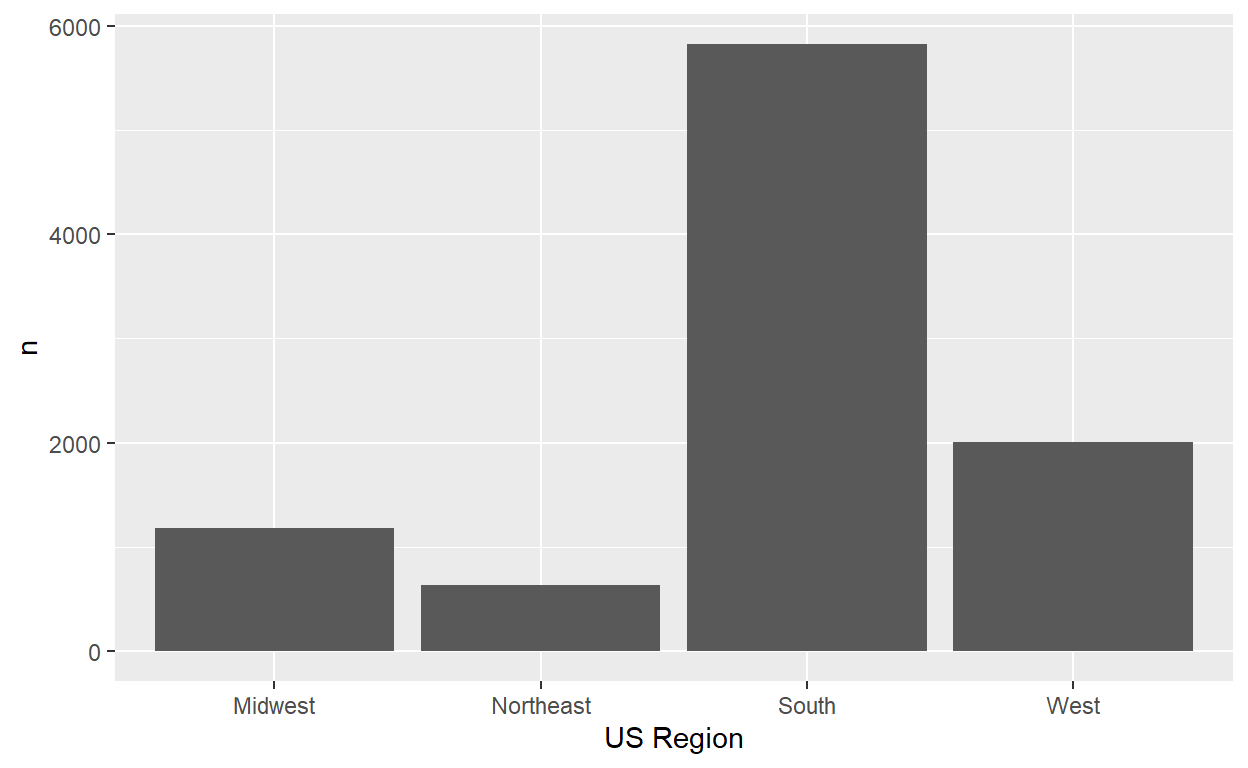
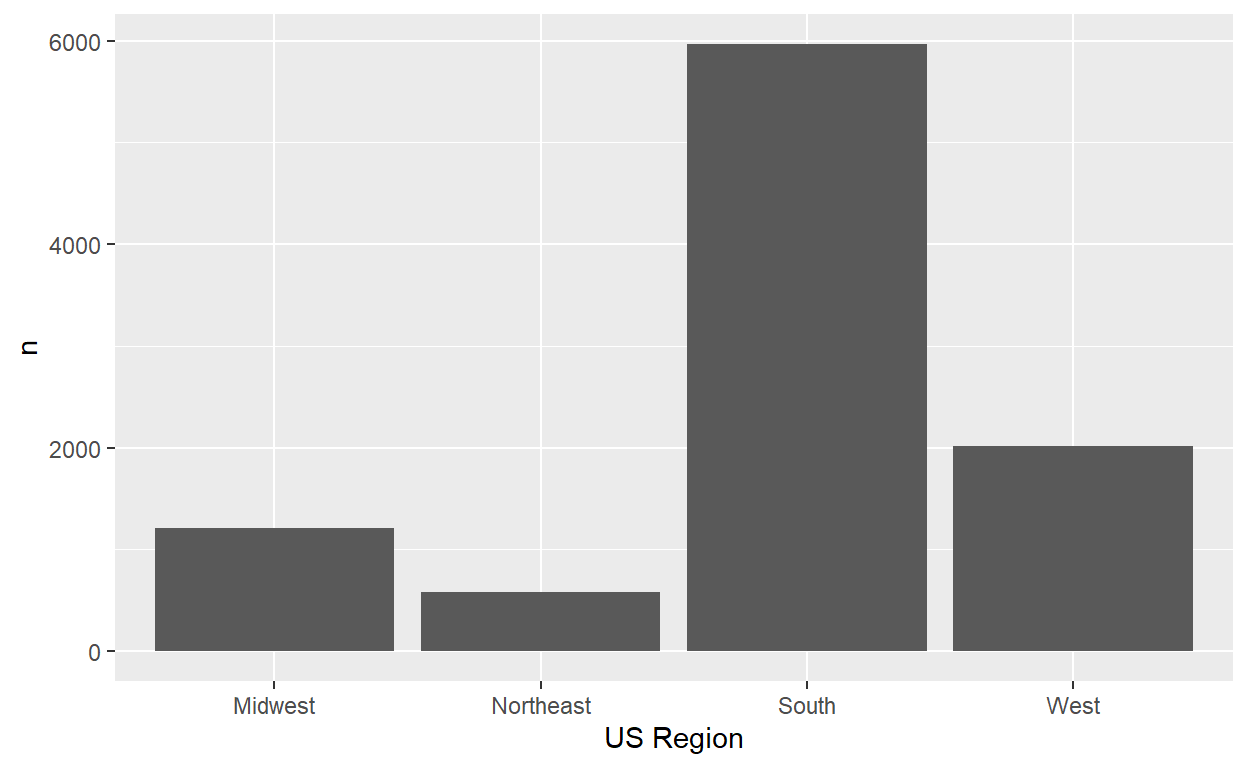
Updated milestone 4

diff --git a/index.html b/index.html
@@ -115,7 +115,7 @@ code span.wa { color: #5e5e5e; font-style: italic; } /* Warning */
   <!--/radix_placeholder_rmarkdown_metadata-->
   
   <script type="text/json" id="radix-resource-manifest">
-  {"type":"character","attributes":{},"value":["Death-Sentences-in-the-United-States-Since-1972-as-of-January-1-2021.csv","index_files/anchor-4.2.2/anchor.min.js","index_files/bowser-1.9.3/bowser.min.js","index_files/distill-2.2.21/template.v2.js","index_files/figure-html5/unnamed-chunk-2-1.png","index_files/figure-html5/unnamed-chunk-2-2.png","index_files/header-attrs-2.16/header-attrs.js","index_files/header-attrs-2.17/header-attrs.js","index_files/jquery-3.6.0/jquery-3.6.0.js","index_files/jquery-3.6.0/jquery-3.6.0.min.js","index_files/jquery-3.6.0/jquery-3.6.0.min.map","index_files/popper-2.6.0/popper.min.js","index_files/tippy-6.2.7/tippy-bundle.umd.min.js","index_files/tippy-6.2.7/tippy-light-border.css","index_files/tippy-6.2.7/tippy.css","index_files/tippy-6.2.7/tippy.umd.min.js","index_files/webcomponents-2.0.0/webcomponents.js"]}
+  {"type":"character","attributes":{},"value":["Death-Sentences-in-the-United-States-Since-1972-as-of-January-1-2021.csv","index_files/anchor-4.2.2/anchor.min.js","index_files/bowser-1.9.3/bowser.min.js","index_files/distill-2.2.21/template.v2.js","index_files/figure-html5/unnamed-chunk-2-1.png","index_files/figure-html5/unnamed-chunk-2-2.png","index_files/figure-html5/unnamed-chunk-3-1.png","index_files/header-attrs-2.16/header-attrs.js","index_files/header-attrs-2.17/header-attrs.js","index_files/jquery-3.6.0/jquery-3.6.0.js","index_files/jquery-3.6.0/jquery-3.6.0.min.js","index_files/jquery-3.6.0/jquery-3.6.0.min.map","index_files/popper-2.6.0/popper.min.js","index_files/tippy-6.2.7/tippy-bundle.umd.min.js","index_files/tippy-6.2.7/tippy-light-border.css","index_files/tippy-6.2.7/tippy.css","index_files/tippy-6.2.7/tippy.umd.min.js","index_files/webcomponents-2.0.0/webcomponents.js"]}
   </script>
   <!--radix_placeholder_navigation_in_header-->
   <!--/radix_placeholder_navigation_in_header-->
@@ -1524,7 +1524,8 @@ code span.wa { color: #5e5e5e; font-style: italic; } /* Warning */
 <div class="layout-chunk" data-layout="l-body">
 <div class="sourceCode">
 <pre class="sourceCode r"><code class="sourceCode r"><span><span class='kw'><a href='https://rdrr.io/r/base/library.html'>library</a></span><span class='op'>(</span><span class='va'><a href='https://tidyverse.tidyverse.org'>tidyverse</a></span><span class='op'>)</span></span>
-<span><span class='kw'><a href='https://rdrr.io/r/base/library.html'>library</a></span><span class='op'>(</span><span class='va'><a href='https://ggplot2.tidyverse.org'>ggplot2</a></span><span class='op'>)</span></span></code></pre>
+<span><span class='kw'><a href='https://rdrr.io/r/base/library.html'>library</a></span><span class='op'>(</span><span class='va'><a href='https://ggplot2.tidyverse.org'>ggplot2</a></span><span class='op'>)</span></span>
+<span><span class='kw'><a href='https://rdrr.io/r/base/library.html'>library</a></span><span class='op'>(</span><span class='va'><a href='https://github.com/tidymodels/infer'>infer</a></span><span class='op'>)</span></span></code></pre>
 </div>
 </div>
 <div class="layout-chunk" data-layout="l-body">
@@ -1545,19 +1546,11 @@ code span.wa { color: #5e5e5e; font-style: italic; } /* Warning */
 </div>
 <img src="index_files/figure-html5/unnamed-chunk-2-1.png" width="624" />
 <div class="sourceCode">
-<pre class="sourceCode r"><code class="sourceCode r"><span><span class='va'>deathsentence</span> <span class='op'>&lt;-</span> <span class='va'>deathsentence</span> <span class='op'>|&gt;</span></span>
-<span>  <span class='fu'><a href='https://dplyr.tidyverse.org/reference/mutate.html'>mutate</a></span><span class='op'>(</span>region <span class='op'>=</span> <span class='fu'><a href='https://dplyr.tidyverse.org/reference/case_when.html'>case_when</a></span><span class='op'>(</span></span>
-<span>    <span class='va'>State.Abbreviation</span> <span class='op'><a href='https://rdrr.io/r/base/match.html'>%in%</a></span> <span class='fu'><a href='https://rdrr.io/r/base/c.html'>c</a></span><span class='op'>(</span><span class='st'>"CT"</span>,<span class='st'>"ME"</span>,<span class='st'>"MA"</span>,<span class='st'>"NH"</span>,<span class='st'>"RI"</span>,<span class='st'>"VT"</span>,<span class='st'>"NJ"</span>,<span class='st'>"NY"</span>,<span class='st'>"PA"</span>, <span class='st'>"DE"</span><span class='op'>)</span> <span class='op'>~</span> <span class='st'>"Northeast"</span>,</span>
-<span>    <span class='va'>State.Abbreviation</span> <span class='op'><a href='https://rdrr.io/r/base/match.html'>%in%</a></span> <span class='fu'><a href='https://rdrr.io/r/base/c.html'>c</a></span><span class='op'>(</span><span class='st'>"IL"</span>,<span class='st'>"IN"</span>,<span class='st'>"MI"</span>,<span class='st'>"OH"</span>,<span class='st'>"WI"</span>, <span class='st'>"IO"</span>,<span class='st'>"KA"</span>,<span class='st'>"MN"</span>,<span class='st'>"NE"</span>,<span class='st'>"ND"</span>,<span class='st'>"SD"</span>, <span class='st'>"MO"</span><span class='op'>)</span> <span class='op'>~</span> <span class='st'>"Midwest"</span>,</span>
-<span>    <span class='va'>State.Abbreviation</span> <span class='op'><a href='https://rdrr.io/r/base/match.html'>%in%</a></span> <span class='fu'><a href='https://rdrr.io/r/base/c.html'>c</a></span><span class='op'>(</span><span class='st'>"FL"</span>,<span class='st'>"GA"</span>,<span class='st'>"MD"</span>,<span class='st'>"NC"</span>, <span class='st'>"SC"</span>, <span class='st'>"VA"</span>, <span class='st'>"WV"</span>, <span class='st'>"Federal"</span>, <span class='st'>"AL"</span>,<span class='st'>"KT"</span>,<span class='st'>"MS"</span>,<span class='st'>"TN"</span>,<span class='st'>"AR"</span>,<span class='st'>"LA"</span>,<span class='st'>"OK"</span>,<span class='st'>"TX"</span><span class='op'>)</span> <span class='op'>~</span> <span class='st'>"South"</span>,</span>
-<span>    <span class='va'>State.Abbreviation</span> <span class='op'><a href='https://rdrr.io/r/base/match.html'>%in%</a></span> <span class='fu'><a href='https://rdrr.io/r/base/c.html'>c</a></span><span class='op'>(</span><span class='st'>"AZ"</span>,<span class='st'>"CO"</span>,<span class='st'>"ID"</span>,<span class='st'>"MT"</span>,<span class='st'>"NV"</span>,<span class='st'>"NM"</span>,<span class='st'>"UT"</span>,<span class='st'>"WY"</span>,<span class='st'>"AK"</span>,<span class='st'>"CA"</span>,<span class='st'>"HA"</span>,<span class='st'>"OR"</span>,<span class='st'>"WA"</span><span class='op'>)</span> <span class='op'>~</span> <span class='st'>"West"</span></span>
-<span>  <span class='op'>)</span><span class='op'>)</span> </span>
-<span>       </span>
-<span><span class='va'>region_graph</span> <span class='op'>&lt;-</span> <span class='va'>deathsentence</span> <span class='op'>|&gt;</span></span>
-<span>  <span class='fu'><a href='https://dplyr.tidyverse.org/reference/group_by.html'>group_by</a></span><span class='op'>(</span><span class='va'>region</span><span class='op'>)</span> <span class='op'>|&gt;</span></span>
-<span>  <span class='fu'><a href='https://tidyr.tidyverse.org/reference/drop_na.html'>drop_na</a></span><span class='op'>(</span><span class='op'>)</span> <span class='op'>|&gt;</span></span>
+<pre class="sourceCode r"><code class="sourceCode r"><span><span class='va'>region_graph</span> <span class='op'>&lt;-</span> <span class='va'>deathsentence</span> <span class='op'>|&gt;</span></span>
+<span>  <span class='fu'><a href='https://dplyr.tidyverse.org/reference/group_by.html'>group_by</a></span><span class='op'>(</span><span class='va'>Region</span><span class='op'>)</span> <span class='op'>|&gt;</span></span>
+<span>  <span class='fu'><a href='https://dplyr.tidyverse.org/reference/filter.html'>filter</a></span><span class='op'>(</span><span class='va'>County.and.State</span> <span class='op'>!=</span> <span class='st'>"Military"</span><span class='op'>)</span> <span class='op'>|&gt;</span></span>
 <span>  <span class='fu'><a href='https://dplyr.tidyverse.org/reference/summarise.html'>summarize</a></span><span class='op'>(</span>n<span class='op'>=</span><span class='fu'><a href='https://dplyr.tidyverse.org/reference/context.html'>n</a></span><span class='op'>(</span><span class='op'>)</span><span class='op'>)</span> <span class='op'>|&gt;</span></span>
-<span>  <span class='fu'><a href='https://ggplot2.tidyverse.org/reference/ggplot.html'>ggplot</a></span><span class='op'>(</span>mapping <span class='op'>=</span> <span class='fu'><a href='https://ggplot2.tidyverse.org/reference/aes.html'>aes</a></span><span class='op'>(</span>x<span class='op'>=</span><span class='va'>region</span>, y <span class='op'>=</span> <span class='va'>n</span><span class='op'>)</span><span class='op'>)</span><span class='op'>+</span></span>
+<span>  <span class='fu'><a href='https://ggplot2.tidyverse.org/reference/ggplot.html'>ggplot</a></span><span class='op'>(</span>mapping <span class='op'>=</span> <span class='fu'><a href='https://ggplot2.tidyverse.org/reference/aes.html'>aes</a></span><span class='op'>(</span>x<span class='op'>=</span><span class='va'>Region</span>, y <span class='op'>=</span> <span class='va'>n</span><span class='op'>)</span><span class='op'>)</span><span class='op'>+</span></span>
 <span>  <span class='fu'><a href='https://ggplot2.tidyverse.org/reference/geom_bar.html'>geom_col</a></span><span class='op'>(</span><span class='op'>)</span> <span class='op'>+</span></span>
 <span>  <span class='fu'><a href='https://ggplot2.tidyverse.org/reference/labs.html'>labs</a></span><span class='op'>(</span>x <span class='op'>=</span> <span class='st'>"US Region"</span>, <span class='st'>"Number of Death Sentences Since 1972"</span><span class='op'>)</span></span>
 <span></span>
@@ -1565,7 +1558,211 @@ code span.wa { color: #5e5e5e; font-style: italic; } /* Warning */
 </div>
 <p><img src="index_files/figure-html5/unnamed-chunk-2-2.png" width="624" /></p>
 </div>
-<div class="sourceCode" id="cb1"><pre class="sourceCode r distill-force-highlighting-css"><code class="sourceCode r"></code></pre></div>
+<div class="layout-chunk" data-layout="l-body">
+<div class="sourceCode">
+<pre class="sourceCode r"><code class="sourceCode r"><span><span class='va'>deathsentence</span><span class='op'>&lt;-</span><span class='va'>deathsentence</span><span class='op'>|&gt;</span></span>
+<span>  <span class='fu'><a href='https://dplyr.tidyverse.org/reference/mutate.html'>mutate</a></span><span class='op'>(</span>executed <span class='op'>=</span> <span class='fu'><a href='https://dplyr.tidyverse.org/reference/if_else.html'>if_else</a></span><span class='op'>(</span><span class='va'>Outcome.of.Sentence</span> <span class='op'>==</span> <span class='st'>"Executed"</span> <span class='op'>|</span> <span class='va'>Outcome.of.Sentence</span> <span class='op'>==</span> <span class='st'>"Executed by a Different State"</span> <span class='op'>|</span> <span class='va'>Outcome.of.Sentence</span> <span class='op'>==</span> <span class='st'>"Executed for a Different Crime"</span> , <span class='fl'>1</span>, <span class='fl'>0</span> <span class='op'>)</span><span class='op'>)</span> <span class='op'>|&gt;</span></span>
+<span>  <span class='fu'><a href='https://dplyr.tidyverse.org/reference/mutate.html'>mutate</a></span><span class='op'>(</span>exonerated <span class='op'>=</span> <span class='fu'><a href='https://dplyr.tidyverse.org/reference/if_else.html'>if_else</a></span><span class='op'>(</span><span class='va'>Outcome.of.Sentence</span> <span class='op'>==</span> <span class='st'>"Exonerated"</span> <span class='op'>|</span> <span class='va'>Outcome.of.Sentence</span> <span class='op'>==</span> <span class='st'>"Grant of Relief (Never</span></span>
+<span><span class='st'>Retried)"</span>, <span class='fl'>1</span>, <span class='fl'>0</span><span class='op'>)</span>,</span>
+<span>         minority <span class='op'>=</span> <span class='fu'><a href='https://dplyr.tidyverse.org/reference/if_else.html'>if_else</a></span><span class='op'>(</span><span class='va'>Races</span> <span class='op'>==</span> <span class='st'>"Black"</span> <span class='op'>|</span> <span class='va'>Races</span> <span class='op'>==</span> <span class='st'>"Latinx"</span> <span class='op'>|</span> <span class='va'>Races</span> <span class='op'>==</span> <span class='st'>"American Indian or Alaska Native"</span> <span class='op'>|</span> <span class='va'>Races</span> <span class='op'>==</span> <span class='st'>"Asian"</span> <span class='op'>|</span> <span class='va'>Races</span> <span class='op'>==</span> <span class='st'>"Other"</span>, <span class='fl'>1</span>, <span class='fl'>0</span><span class='op'>)</span><span class='op'>)</span><span class='op'>|&gt;</span></span>
+<span>  <span class='fu'><a href='https://dplyr.tidyverse.org/reference/mutate.html'>mutate</a></span><span class='op'>(</span>Southern <span class='op'>=</span> <span class='fu'><a href='https://dplyr.tidyverse.org/reference/if_else.html'>if_else</a></span><span class='op'>(</span><span class='va'>Region</span> <span class='op'>==</span> <span class='st'>"South"</span>, <span class='fl'>1</span>, <span class='fl'>0</span><span class='op'>)</span><span class='op'>)</span></span>
+<span></span>
+<span></span>
+<span><span class='va'>race_region_graph</span> <span class='op'>&lt;-</span> <span class='va'>deathsentence</span> <span class='op'>|&gt;</span></span>
+<span>  <span class='fu'><a href='https://dplyr.tidyverse.org/reference/group_by.html'>group_by</a></span><span class='op'>(</span><span class='va'>Races</span>, <span class='va'>Region</span><span class='op'>)</span><span class='op'>|&gt;</span></span>
+<span>  <span class='fu'><a href='https://dplyr.tidyverse.org/reference/filter.html'>filter</a></span><span class='op'>(</span><span class='va'>County.and.State</span> <span class='op'>!=</span> <span class='st'>"Military"</span>,</span>
+<span>         <span class='va'>Races</span> <span class='op'>!=</span> <span class='st'>"Unknown"</span><span class='op'>)</span> <span class='op'>|&gt;</span></span>
+<span>  <span class='fu'><a href='https://dplyr.tidyverse.org/reference/summarise.html'>summarize</a></span><span class='op'>(</span></span>
+<span>            meanexon <span class='op'>=</span> <span class='fu'><a href='https://rdrr.io/r/base/mean.html'>mean</a></span><span class='op'>(</span><span class='va'>exonerated</span><span class='op'>)</span><span class='op'>)</span> <span class='op'>|&gt;</span></span>
+<span>  <span class='fu'><a href='https://ggplot2.tidyverse.org/reference/ggplot.html'>ggplot</a></span><span class='op'>(</span>mapping <span class='op'>=</span> <span class='fu'><a href='https://ggplot2.tidyverse.org/reference/aes.html'>aes</a></span><span class='op'>(</span>x <span class='op'>=</span> <span class='va'>Races</span>, y <span class='op'>=</span> <span class='va'>meanexon</span><span class='op'>)</span><span class='op'>)</span> <span class='op'>+</span></span>
+<span>  <span class='fu'><a href='https://ggplot2.tidyverse.org/reference/geom_bar.html'>geom_col</a></span><span class='op'>(</span><span class='op'>)</span> <span class='op'>+</span></span>
+<span>  <span class='fu'><a href='https://ggplot2.tidyverse.org/reference/facet_wrap.html'>facet_wrap</a></span><span class='op'>(</span><span class='op'>~</span> <span class='va'>Region</span><span class='op'>)</span> <span class='op'>+</span></span>
+<span>  <span class='fu'><a href='https://ggplot2.tidyverse.org/reference/scale_discrete.html'>scale_x_discrete</a></span><span class='op'>(</span>labels <span class='op'>=</span> <span class='fu'><a href='https://rdrr.io/r/base/c.html'>c</a></span><span class='op'>(</span><span class='st'>"Native American"</span>, <span class='st'>"Asian"</span>, <span class='st'>"Black"</span>, <span class='st'>"Latine"</span>, <span class='st'>"Middle Eastern"</span>, <span class='st'>"White"</span><span class='op'>)</span>, guide <span class='op'>=</span> <span class='fu'><a href='https://ggplot2.tidyverse.org/reference/guide_axis.html'>guide_axis</a></span><span class='op'>(</span>n.dodge<span class='op'>=</span><span class='fl'>2</span><span class='op'>)</span><span class='op'>)</span> <span class='op'>+</span></span>
+<span>  <span class='fu'><a href='https://ggplot2.tidyverse.org/reference/labs.html'>labs</a></span><span class='op'>(</span>x <span class='op'>=</span> <span class='st'>"Race of Death Row Prisoner"</span>, y<span class='op'>=</span> <span class='st'>"Proportion of Death Row Prisoners Ultimately Exonerated"</span>, title <span class='op'>=</span> <span class='st'>"Rate of Capital Exonerations in Relation to Defendant's Race and US Region"</span><span class='op'>)</span></span>
+<span></span>
+<span><span class='va'>race_region_graph</span></span></code></pre>
+</div>
+<img src="index_files/figure-html5/unnamed-chunk-3-1.png" width="624" />
+<div class="sourceCode">
+<pre class="sourceCode r"><code class="sourceCode r"><span><span class='va'>fit_1</span> <span class='op'>&lt;-</span> <span class='fu'><a href='https://rdrr.io/r/stats/lm.html'>lm</a></span><span class='op'>(</span><span class='va'>exonerated</span> <span class='op'>~</span> <span class='va'>minority</span>, data <span class='op'>=</span> <span class='va'>deathsentence</span><span class='op'>)</span></span>
+<span><span class='va'>fit_1</span></span></code></pre>
+</div>
+<pre><code>
+Call:
+lm(formula = exonerated ~ minority, data = deathsentence)
+
+Coefficients:
+(Intercept)     minority  
+    0.01404      0.00814  </code></pre>
+<div class="sourceCode">
+<pre class="sourceCode r"><code class="sourceCode r"><span><span class='va'>fit_2</span> <span class='op'>&lt;-</span> <span class='fu'><a href='https://rdrr.io/r/stats/lm.html'>lm</a></span><span class='op'>(</span><span class='va'>exonerated</span> <span class='op'>~</span> <span class='va'>minority</span> <span class='op'>+</span> <span class='va'>Southern</span>, data <span class='op'>=</span> <span class='va'>deathsentence</span><span class='op'>)</span></span>
+<span><span class='va'>fit_2</span></span></code></pre>
+</div>
+<pre><code>
+Call:
+lm(formula = exonerated ~ minority + Southern, data = deathsentence)
+
+Coefficients:
+(Intercept)     minority     Southern  
+   0.015306     0.008119    -0.002057  </code></pre>
+<div class="sourceCode">
+<pre class="sourceCode r"><code class="sourceCode r"><span><span class='va'>fit_1</span> <span class='op'>|&gt;</span></span>
+<span>  <span class='fu'>broom</span><span class='fu'>::</span><span class='fu'><a href='https://generics.r-lib.org/reference/tidy.html'>tidy</a></span><span class='op'>(</span><span class='op'>)</span> <span class='op'>|&gt;</span></span>
+<span>  <span class='fu'><a href='https://dplyr.tidyverse.org/reference/select.html'>select</a></span><span class='op'>(</span><span class='va'>term</span>, <span class='va'>estimate</span><span class='op'>)</span> <span class='op'>|&gt;</span>  </span>
+<span>  <span class='fu'>knitr</span><span class='fu'>::</span><span class='fu'><a href='https://rdrr.io/pkg/knitr/man/kable.html'>kable</a></span><span class='op'>(</span>digits <span class='op'>=</span> <span class='fl'>3</span><span class='op'>)</span></span></code></pre>
+</div>
+<table>
+<thead>
+<tr class="header">
+<th style="text-align: left;">term</th>
+<th style="text-align: right;">estimate</th>
+</tr>
+</thead>
+<tbody>
+<tr class="odd">
+<td style="text-align: left;">(Intercept)</td>
+<td style="text-align: right;">0.014</td>
+</tr>
+<tr class="even">
+<td style="text-align: left;">minority</td>
+<td style="text-align: right;">0.008</td>
+</tr>
+</tbody>
+</table>
+<div class="sourceCode">
+<pre class="sourceCode r"><code class="sourceCode r"><span><span class='va'>fit_2</span> <span class='op'>|&gt;</span></span>
+<span>  <span class='fu'>broom</span><span class='fu'>::</span><span class='fu'><a href='https://generics.r-lib.org/reference/tidy.html'>tidy</a></span><span class='op'>(</span><span class='op'>)</span> <span class='op'>|&gt;</span></span>
+<span>  <span class='fu'><a href='https://dplyr.tidyverse.org/reference/select.html'>select</a></span><span class='op'>(</span><span class='va'>term</span>, <span class='va'>estimate</span><span class='op'>)</span> <span class='op'>|&gt;</span>  </span>
+<span>  <span class='fu'>knitr</span><span class='fu'>::</span><span class='fu'><a href='https://rdrr.io/pkg/knitr/man/kable.html'>kable</a></span><span class='op'>(</span>digits <span class='op'>=</span> <span class='fl'>3</span><span class='op'>)</span></span></code></pre>
+</div>
+<table>
+<thead>
+<tr class="header">
+<th style="text-align: left;">term</th>
+<th style="text-align: right;">estimate</th>
+</tr>
+</thead>
+<tbody>
+<tr class="odd">
+<td style="text-align: left;">(Intercept)</td>
+<td style="text-align: right;">0.015</td>
+</tr>
+<tr class="even">
+<td style="text-align: left;">minority</td>
+<td style="text-align: right;">0.008</td>
+</tr>
+<tr class="odd">
+<td style="text-align: left;">Southern</td>
+<td style="text-align: right;">-0.002</td>
+</tr>
+</tbody>
+</table>
+<div class="sourceCode">
+<pre class="sourceCode r"><code class="sourceCode r"><span><span class='va'>ate</span><span class='op'>&lt;-</span> <span class='va'>deathsentence</span> <span class='op'>|&gt;</span></span>
+<span>  <span class='fu'><a href='https://dplyr.tidyverse.org/reference/group_by.html'>group_by</a></span><span class='op'>(</span><span class='va'>minority</span><span class='op'>)</span> <span class='op'>|&gt;</span></span>
+<span>  <span class='fu'><a href='https://dplyr.tidyverse.org/reference/summarise.html'>summarize</a></span><span class='op'>(</span>mean <span class='op'>=</span> <span class='fu'><a href='https://rdrr.io/r/base/mean.html'>mean</a></span><span class='op'>(</span><span class='va'>exonerated</span>, na.rm <span class='op'>=</span> <span class='cn'>TRUE</span><span class='op'>)</span><span class='op'>)</span><span class='op'>|&gt;</span></span>
+<span><span class='fu'><a href='https://tidyr.tidyverse.org/reference/pivot_wider.html'>pivot_wider</a></span><span class='op'>(</span>names_from <span class='op'>=</span> <span class='va'>minority</span>,</span>
+<span>              values_from <span class='op'>=</span> <span class='va'>mean</span><span class='op'>)</span> <span class='op'>|&gt;</span></span>
+<span>  <span class='fu'><a href='https://dplyr.tidyverse.org/reference/mutate.html'>mutate</a></span><span class='op'>(</span>ATE <span class='op'>=</span> <span class='va'>`1`</span><span class='op'>-</span><span class='va'>`0`</span><span class='op'>)</span></span>
+<span></span>
+<span><span class='fu'>knitr</span><span class='fu'>::</span><span class='fu'><a href='https://rdrr.io/pkg/knitr/man/kable.html'>kable</a></span><span class='op'>(</span><span class='va'>ate</span>, col.names <span class='op'>=</span> <span class='fu'><a href='https://rdrr.io/r/base/c.html'>c</a></span><span class='op'>(</span><span class='st'>"Average Rate of Exoneration for White Defendants"</span>, <span class='st'>"Rate of Exoneration for Nonwhite Candidates"</span>, <span class='st'>"Difference in Means"</span><span class='op'>)</span>,</span>
+<span>             digits <span class='op'>=</span> <span class='fl'>3</span><span class='op'>)</span></span></code></pre>
+</div>
+<table>
+<colgroup>
+<col style="width: 43%" />
+<col style="width: 38%" />
+<col style="width: 17%" />
+</colgroup>
+<thead>
+<tr class="header">
+<th style="text-align: right;">Average Rate of Exoneration for White Defendants</th>
+<th style="text-align: right;">Rate of Exoneration for Nonwhite Candidates</th>
+<th style="text-align: right;">Difference in Means</th>
+</tr>
+</thead>
+<tbody>
+<tr class="odd">
+<td style="text-align: right;">0.014</td>
+<td style="text-align: right;">0.022</td>
+<td style="text-align: right;">0.008</td>
+</tr>
+</tbody>
+</table>
+</div>
+<h2 id="analysis">Analysis</h2>
+<p>As my visualizations all cumulatively demonstrate, the defendant being a minority seems to correlate with a higher rate of exoneration from death row. Basically there is a small but still positive relationship between being a nonwhite defendant and having your sentence be overturned based on evidence of innocence. The ATE based on my calculations seems to be 0.008, a very similar statistic to the coefficient I have caluclated using linear regression as well. Basically, when a defendant is white (when minority = 0 as opposed to 1), the rate of exoneration is about 0.014 or a little over 1% (the intercept that was predicted) while the changing of the defendant’s race is correlated, on average, with a 0.8 percent increase. However, as my graph mapping the distribution of sentences by region demonstrates, the South has a disproportionately high rate of death sentences. Perhaps the region of the sentence is a confounder, correlating with a higher proportion of nonwhite defendants in general and some sort of structure state-specific issue within the justice system that causes more wrongful convictions and thus exonerations overall in the South, independent of the defendant’s race. However, my second attempt at running a linear regression counteracts that argument. When a defendant is sentenced in a non-Southern state, nonwhite defendants are still being exonerated at a rate of 0.008 higher than white ones, an almost identical coefficient to the one I calculated before. On the other hand, when a defendant is white, being sentenced in a Southern state as opposed to in any other region actually correlates with a decreased rate of exoneration at -0.002. Basically, the question of whether the death sentence was handed down in the South does not appear to be a confounder witin this data, even if the highest percentage of death sentences are located there.</p>
+<div class="layout-chunk" data-layout="l-body">
+<div class="sourceCode">
+<pre class="sourceCode r"><code class="sourceCode r"><span><span class='va'>fit_3</span> <span class='op'>&lt;-</span> <span class='fu'><a href='https://rdrr.io/r/stats/lm.html'>lm</a></span><span class='op'>(</span><span class='va'>exonerated</span> <span class='op'>~</span> <span class='va'>minority</span> <span class='op'>+</span> <span class='va'>Year</span>, data <span class='op'>=</span> <span class='va'>deathsentence</span><span class='op'>)</span></span>
+<span><span class='va'>fit_3</span></span></code></pre>
+</div>
+<pre><code>
+Call:
+lm(formula = exonerated ~ minority + Year, data = deathsentence)
+
+Coefficients:
+(Intercept)     minority         Year  
+  1.4623059    0.0090782   -0.0007273  </code></pre>
+<div class="sourceCode">
+<pre class="sourceCode r"><code class="sourceCode r"><span><span class='va'>race_dist</span> <span class='op'>&lt;-</span> <span class='va'>deathsentence</span> <span class='op'>|&gt;</span></span>
+<span>  <span class='fu'><a href='https://dplyr.tidyverse.org/reference/mutate.html'>mutate</a></span><span class='op'>(</span>nonwhite <span class='op'>=</span> <span class='fu'><a href='https://dplyr.tidyverse.org/reference/if_else.html'>if_else</a></span><span class='op'>(</span><span class='va'>Races</span> <span class='op'>==</span> <span class='st'>"Black"</span> <span class='op'>|</span> <span class='va'>Races</span> <span class='op'>==</span> <span class='st'>"Latinx"</span> <span class='op'>|</span> <span class='va'>Races</span> <span class='op'>==</span> <span class='st'>"American Indian or Alaska Native"</span> <span class='op'>|</span> <span class='va'>Races</span> <span class='op'>==</span> <span class='st'>"Asian"</span> <span class='op'>|</span> <span class='va'>Races</span> <span class='op'>==</span> <span class='st'>"Other"</span>, <span class='st'>"Nonwhite"</span>, <span class='st'>"White"</span><span class='op'>)</span><span class='op'>)</span><span class='op'>|&gt;</span></span>
+<span>  <span class='fu'><a href='https://dplyr.tidyverse.org/reference/group_by.html'>group_by</a></span><span class='op'>(</span><span class='va'>nonwhite</span><span class='op'>)</span><span class='op'>|&gt;</span></span>
+<span>  <span class='fu'><a href='https://dplyr.tidyverse.org/reference/summarise.html'>summarize</a></span><span class='op'>(</span>count <span class='op'>=</span> <span class='fu'><a href='https://dplyr.tidyverse.org/reference/context.html'>n</a></span><span class='op'>(</span><span class='op'>)</span>, </span>
+<span>            exon <span class='op'>=</span> <span class='fu'><a href='https://rdrr.io/r/base/mean.html'>mean</a></span><span class='op'>(</span><span class='va'>exonerated</span><span class='op'>)</span><span class='op'>)</span></span>
+<span><span class='va'>race_dist</span></span></code></pre>
+</div>
+<pre><code># A tibble: 2 × 3
+  nonwhite count   exon
+  &lt;chr&gt;    &lt;int&gt;  &lt;dbl&gt;
+1 Nonwhite  5094 0.0222
+2 White     4700 0.0140</code></pre>
+<div class="sourceCode">
+<pre class="sourceCode r"><code class="sourceCode r"><span><span class='fu'>knitr</span><span class='fu'>::</span><span class='fu'><a href='https://rdrr.io/pkg/knitr/man/kable.html'>kable</a></span><span class='op'>(</span><span class='va'>race_dist</span>, col.names <span class='op'>=</span> <span class='fu'><a href='https://rdrr.io/r/base/c.html'>c</a></span><span class='op'>(</span><span class='st'>"Race of Capital Defendant"</span>, <span class='st'>"Total Death Sentences"</span>, <span class='st'>"Rate of Exoneration"</span><span class='op'>)</span>,</span>
+<span>             digits <span class='op'>=</span> <span class='fl'>3</span><span class='op'>)</span></span></code></pre>
+</div>
+<table>
+<thead>
+<tr class="header">
+<th style="text-align: left;">Race of Capital Defendant</th>
+<th style="text-align: right;">Total Death Sentences</th>
+<th style="text-align: right;">Rate of Exoneration</th>
+</tr>
+</thead>
+<tbody>
+<tr class="odd">
+<td style="text-align: left;">Nonwhite</td>
+<td style="text-align: right;">5094</td>
+<td style="text-align: right;">0.022</td>
+</tr>
+<tr class="even">
+<td style="text-align: left;">White</td>
+<td style="text-align: right;">4700</td>
+<td style="text-align: right;">0.014</td>
+</tr>
+</tbody>
+</table>
+<div class="sourceCode">
+<pre class="sourceCode r"><code class="sourceCode r"><span><span class='va'>region_dist</span> <span class='op'>&lt;-</span> <span class='va'>deathsentence</span> <span class='op'>|&gt;</span></span>
+<span>  <span class='fu'><a href='https://dplyr.tidyverse.org/reference/group_by.html'>group_by</a></span><span class='op'>(</span><span class='va'>Southern</span><span class='op'>)</span><span class='op'>|&gt;</span></span>
+<span>  <span class='fu'><a href='https://dplyr.tidyverse.org/reference/summarise.html'>summarize</a></span><span class='op'>(</span>count <span class='op'>=</span> <span class='fu'><a href='https://dplyr.tidyverse.org/reference/context.html'>n</a></span><span class='op'>(</span><span class='op'>)</span><span class='op'>)</span></span>
+<span><span class='va'>race_dist</span></span></code></pre>
+</div>
+<pre><code># A tibble: 2 × 3
+  nonwhite count   exon
+  &lt;chr&gt;    &lt;int&gt;  &lt;dbl&gt;
+1 Nonwhite  5094 0.0222
+2 White     4700 0.0140</code></pre>
+<div class="sourceCode">
+<pre class="sourceCode r"><code class="sourceCode r"><span><span class='va'>region_dist</span></span></code></pre>
+</div>
+<pre><code># A tibble: 2 × 2
+  Southern count
+     &lt;dbl&gt; &lt;int&gt;
+1        0  3830
+2        1  5964</code></pre>
+</div>
+<div class="sourceCode" id="cb7"><pre class="sourceCode r distill-force-highlighting-css"><code class="sourceCode r"></code></pre></div>
 <!--radix_placeholder_article_footer-->
 <!--/radix_placeholder_article_footer-->
 </div>
